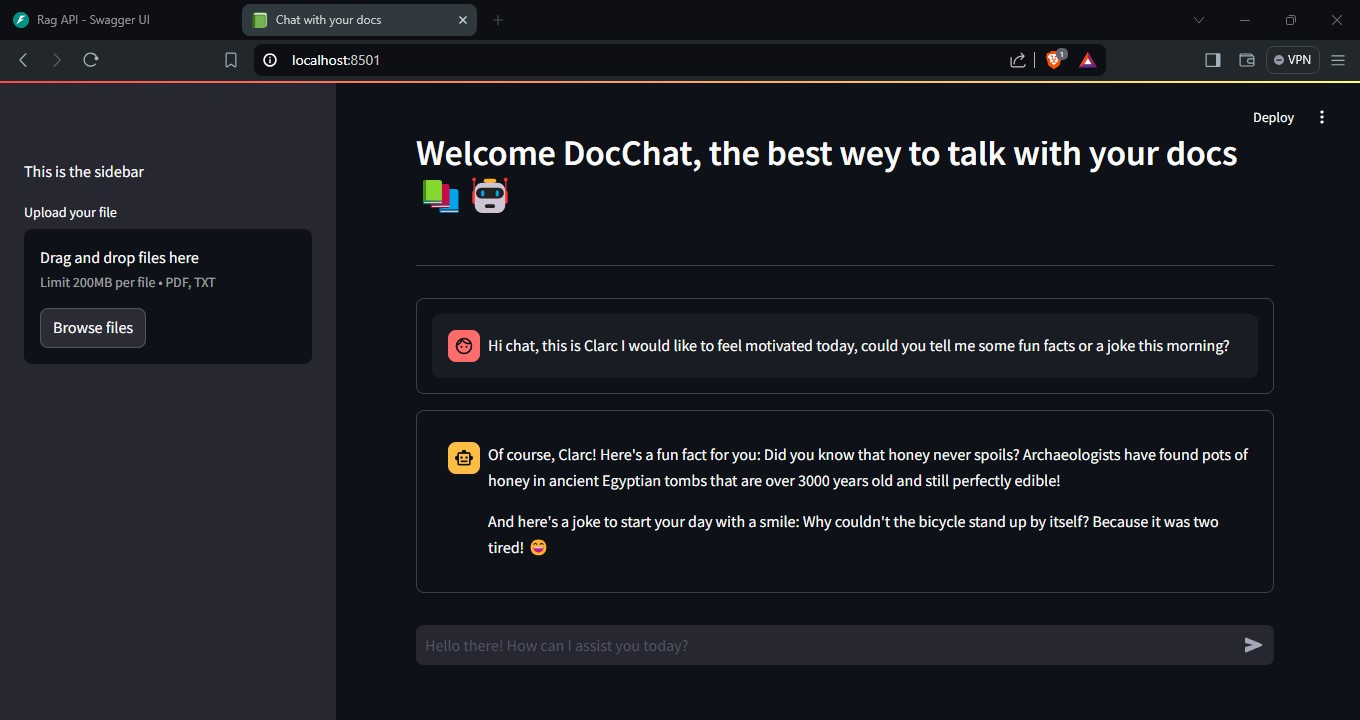
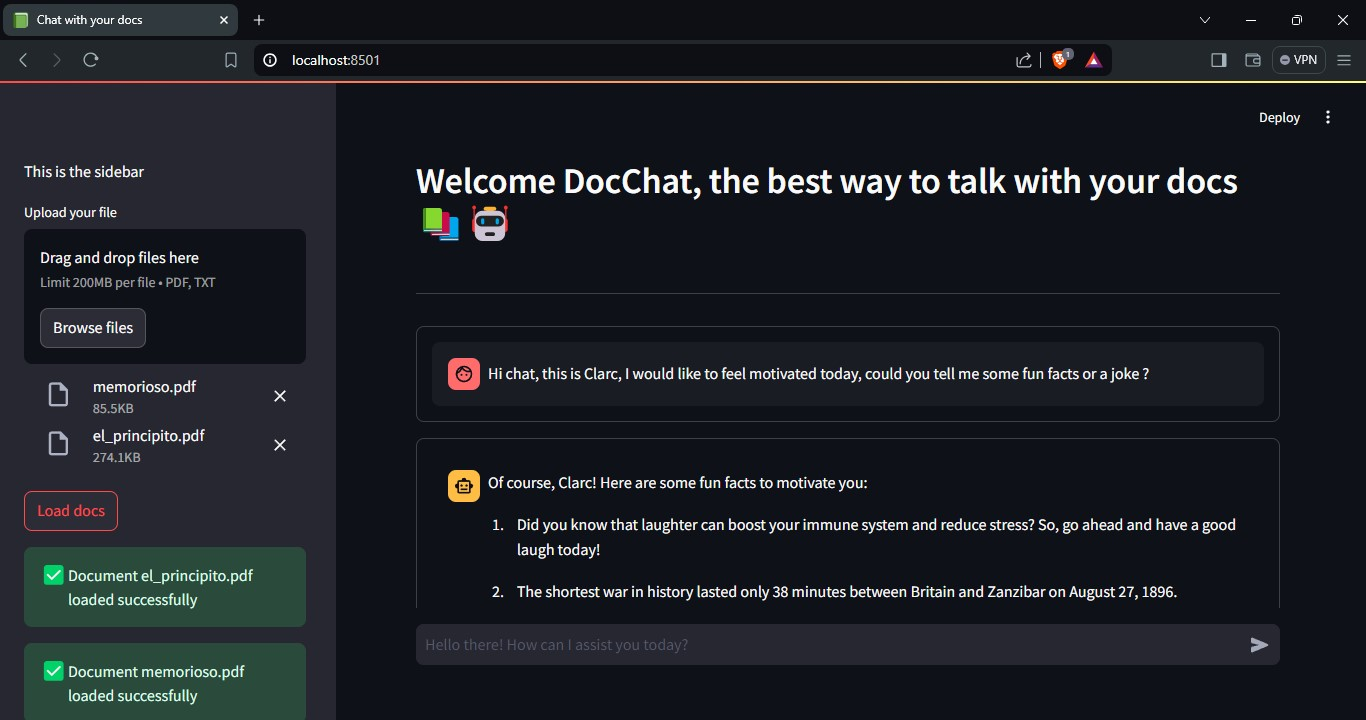
chore: Update dotenv loading to override existing environment variables

diff --git a/front/front_app.py b/front/front_app.py
@@ -13,7 +13,7 @@ from langchain_text_splitters import RecursiveCharacterTextSplitter
 from dotenv import load_dotenv
 import os
 
-load_dotenv()
+load_dotenv(override=True)
 
 
 def register_memory(human_msg, ia_msg, uri_service):
@@ -220,7 +220,7 @@ def main(uri_service, uri_milvus):
         page_title="Chat with your docs", page_icon=":green_book:", layout="wide"
     )
     st.title("DocChat App")
-    st.header(f"Welcome DocChat, the best wey to talk with your docs 📚🤖")
+    st.header(f"Welcome DocChat, the best way to talk with your docs 📚🤖")
 
     # Initialize cat history
     if "messages" not in st.session_state:

diff --git a/rag_service/database.py b/rag_service/database.py
@@ -5,7 +5,7 @@ from sqlalchemy_utils import database_exists, create_database
 import os
 import dotenv
 
-dotenv.load_dotenv()
+dotenv.load_dotenv(override=True)
 
 POSTGRES_USER = os.getenv("POSTGRES_USER_DB")
 POSTGRES_PASSWORD = os.getenv("POSTGRES_PASSWORD_DB")
